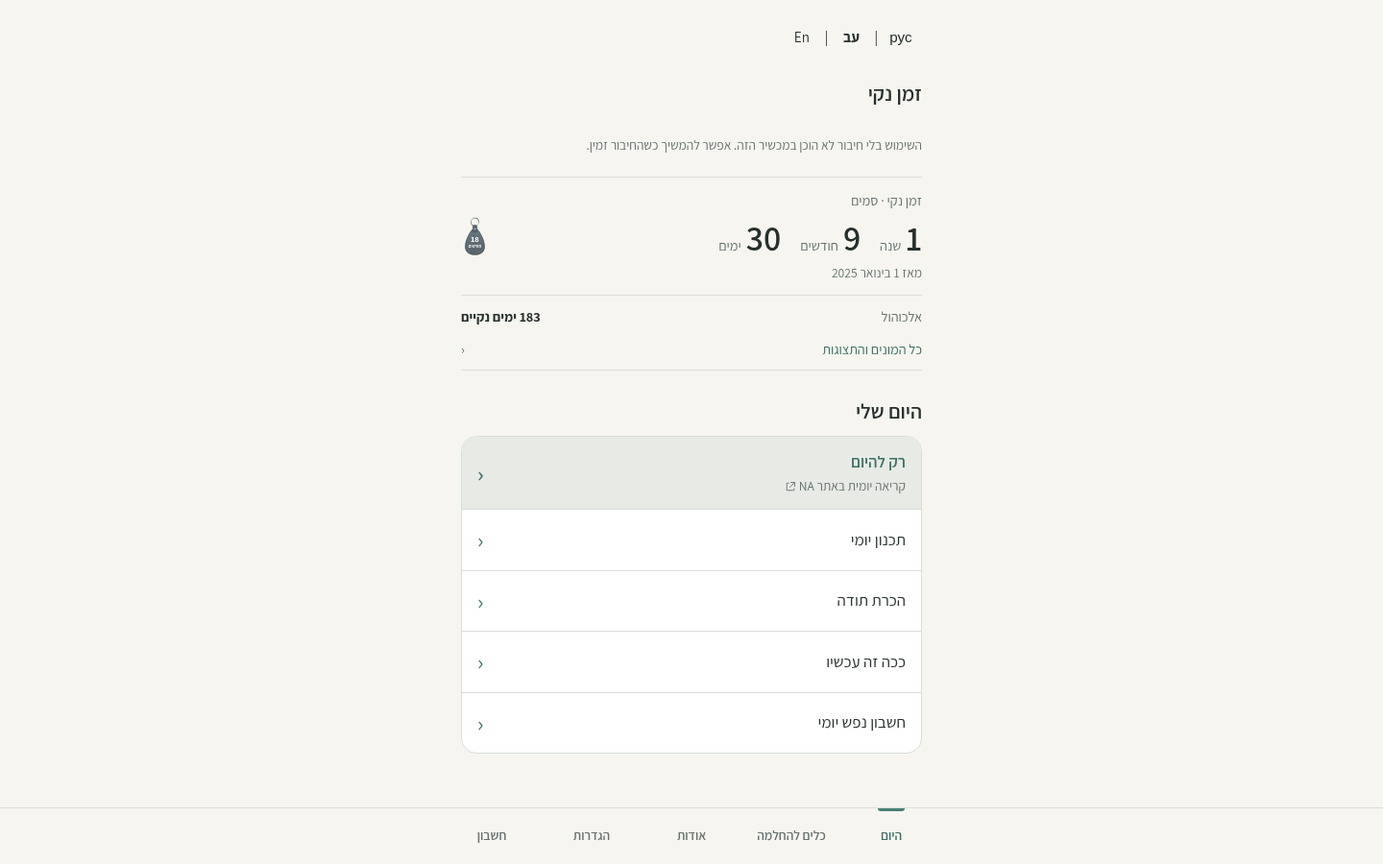
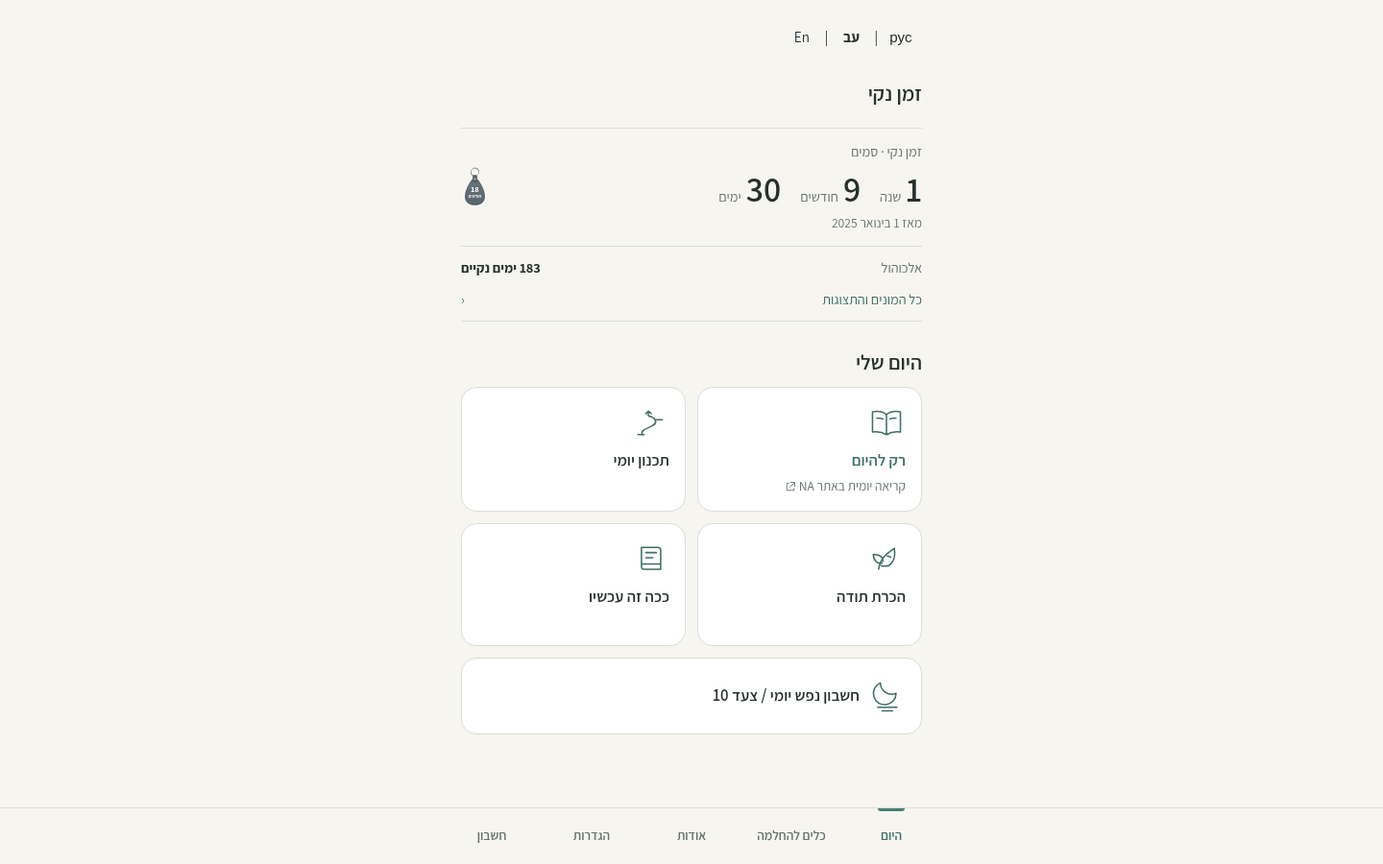
Match Home daily cards to Welcome with a two by two plus Step 10 layout

diff --git a/index.html b/index.html
@@ -299,9 +299,9 @@ select{min-height:46px}
 .welcome-features{margin:0 0 24px}
 .welcome-features h2{font-size:1.2rem;margin:0 0 12px}
 .welcome-feature-list{list-style:none;padding:0;margin:0;display:grid;gap:12px}
-.welcome-feature-list li{display:flex;align-items:flex-start;gap:14px;padding:16px;background:var(--surface);border:1px solid var(--line);border-radius:16px;min-width:0}
-.welcome-feature-list .page-art{color:var(--accent-ink);width:40px;height:40px}
-.welcome-feature-list h3{font-size:1.05rem;line-height:1.4;margin:0 0 4px;font-weight:600}
+.welcome-feature-list li,.daily-card{display:flex;align-items:flex-start;gap:14px;padding:16px;background:var(--surface);border:1px solid var(--line);border-radius:16px;min-width:0}
+.welcome-feature-list .page-art,.daily-card .page-art{color:var(--accent-ink);width:40px;height:40px}
+.welcome-feature-list h3,.daily-card-title{font-size:1.05rem;line-height:1.4;margin:0 0 4px;font-weight:600}
 .welcome-feature-list p{font-size:1rem;color:var(--muted);margin:0;line-height:1.5}
 .welcome-entry{max-width:440px;margin:0 auto;text-align:center}
 #welcome .welcome-entry .btn{width:100%;white-space:normal;margin-bottom:8px}
@@ -397,11 +397,16 @@ nav.tabs button span{max-width:100%;white-space:normal;overflow-wrap:anywhere}
 .counter-detail-link{display:flex;align-items:center;justify-content:space-between;gap:12px;width:100%;min-height:44px;padding:8px 0;color:var(--accent-ink);font-size:.9rem;border:0;background:none;text-align:start;cursor:pointer}
 .chevron::after{content:'‹'}
 :root[dir="ltr"] .chevron::after{content:'›'}
-#counter .tool-links{padding:0;overflow:hidden}
-#counter .tool-links :is(a,button){min-height:56px;padding:12px 16px;gap:10px;text-align:start}
-#counter .tool-links .primary{background:var(--accent-soft);min-height:76px}
-.action-copy{display:flex;flex-direction:column;min-width:0}
-.action-copy small{font-size:.85rem;font-weight:400;color:var(--muted)}
+.daily-cards{display:grid;grid-template-columns:repeat(2,minmax(0,1fr));gap:12px}
+.daily-card{flex-direction:column;gap:8px;min-height:128px;width:100%;text-align:start;text-decoration:none;cursor:pointer;overflow-wrap:anywhere;color:var(--ink)}
+.daily-card-title{display:block}
+.daily-card small{display:block;font-size:.85rem;font-weight:400;color:var(--muted);line-height:1.5}
+.daily-card.primary .daily-card-title{color:var(--accent-ink)}
+.daily-card:last-child{grid-column:1/-1;flex-direction:row;align-items:center;min-height:80px}
+.daily-card:last-child .daily-card-title{margin:0}
+.daily-card:active{background:var(--accent-soft)}
+@media(hover:hover){.daily-card:hover{border-color:var(--accent-ink);background:var(--accent-soft)}}
+@media(max-width:340px){.daily-card{padding:10px}.daily-card-title{font-size:.95rem}.daily-cards{gap:10px}}
 .external-link-icon{width:12px;height:12px;fill:none;stroke:currentColor;stroke-width:1.2;vertical-align:middle}
 #counterDetails{text-align:start;padding-bottom:20px}
 #counterDetails .count{margin:auto;max-width:100%}
@@ -512,12 +517,12 @@ nav.tabs button span{max-width:100%;white-space:normal;overflow-wrap:anywhere}
     </div>
     <div class="today-actions">
       <h2><span data-i18n="היום שלי">היום שלי</span></h2>
-      <div class="tool-links" aria-label="פעולות יומיות" data-i18n-aria-label="פעולות יומיות">
-        <a class="primary" id="dailyReading" href="https://www.naisrael.org.il/just-for-today/" target="_blank" rel="noopener noreferrer" aria-label="רק להיום — נפתח בחלון חדש" data-i18n-aria-label="רק להיום — נפתח בחלון חדש"><span class="action-copy"><span data-i18n="רק להיום">רק להיום</span><small><span data-i18n="קריאה יומית באתר NA">קריאה יומית באתר NA</span> <span id="readingLanguage"></span> <svg class="external-link-icon" viewBox="0 0 16 16" aria-hidden="true" focusable="false"><path d="M6 3H3v10h10v-3M8 2h6v6M14 2 7 9"/></svg></small></span></a>
-        <button data-go="planner"><span data-i18n="תכנון יומי">תכנון יומי</span></button>
-        <button data-go="gratitude"><span data-i18n="הכרת תודה">הכרת תודה</span></button>
-        <button data-go="journal"><span data-i18n="ככה זה עכשיו">ככה זה עכשיו</span></button>
-        <button data-go="inventory"><span data-i18n="חשבון נפש יומי">חשבון נפש יומי</span></button>
+      <div class="daily-cards" aria-label="פעולות יומיות" data-i18n-aria-label="פעולות יומיות">
+        <a class="daily-card primary" id="dailyReading" href="https://www.naisrael.org.il/just-for-today/" target="_blank" rel="noopener noreferrer" aria-label="רק להיום — נפתח בחלון חדש" data-i18n-aria-label="רק להיום — נפתח בחלון חדש"><svg class="page-art" viewBox="0 0 44 44" aria-hidden="true" focusable="false"><path d="M22 13c-5-4-11-4-16-3v23c6-1 11 0 16 3 5-3 10-4 16-3V10c-5-1-11-1-16 3Zm0 0v23M11 17c3 0 5 0 7 1m8 0c2-1 4-1 7-1"/></svg><span><span class="daily-card-title" data-i18n="רק להיום">רק להיום</span><small><span data-i18n="קריאה יומית באתר NA">קריאה יומית באתר NA</span> <span id="readingLanguage"></span> <svg class="external-link-icon" viewBox="0 0 16 16" aria-hidden="true" focusable="false"><path d="M6 3H3v10h10v-3M8 2h6v6M14 2 7 9"/></svg></small></span></a>
+        <button class="daily-card" data-go="planner"><svg class="page-art" viewBox="0 0 44 44" aria-hidden="true" focusable="false"><path d="M13 36c-4-8 18-8 15-16s-10-2-8-9"/><path d="m17 12 3-3 3 3"/><path d="M8 36h7m14-17h7"/></svg><span class="daily-card-title" data-i18n="תכנון יומי">תכנון יומי</span></button>
+        <button class="daily-card" data-go="gratitude"><svg class="page-art" viewBox="0 0 44 44" aria-hidden="true" focusable="false"><path d="M13 34c2-12 8-17 18-24 2 14-4 23-15 20"/><path d="M17 27c-6 1-10-3-10-10 7 0 11 3 11 8m5-6 4 1"/></svg><span class="daily-card-title" data-i18n="הכרת תודה">הכרת תודה</span></button>
+        <button class="daily-card" data-go="journal"><svg class="page-art" viewBox="0 0 44 44" aria-hidden="true" focusable="false"><path d="M12 9h19a3 3 0 0 1 3 3v22H15a3 3 0 0 1-3-3V9Zm0 19h22M17 15h12m-12 6h8"/></svg><span class="daily-card-title" data-i18n="ככה זה עכשיו">ככה זה עכשיו</span></button>
+        <button class="daily-card" data-go="inventory"><svg class="page-art" viewBox="0 0 44 44" aria-hidden="true" focusable="false"><path d="M33 19A13 13 0 0 1 15 7a13 13 0 1 0 18 12Z"/><path d="M12 35h22m-17 4h12"/></svg><span class="daily-card-title" data-i18n="חשבון נפש יומי / צעד 10">חשבון נפש יומי / צעד 10</span></button>
       </div>
     </div>
   </section>
@@ -835,7 +840,7 @@ nav.tabs button span{max-width:100%;white-space:normal;overflow-wrap:anywhere}
 <script src="assets/recovery-timers.js"></script>
 <script>
 (function(){
-const APP_VERSION='2026.10.31.1';
+const APP_VERSION='2026.10.31.2';
 const KEY='cleantime-he-v1';
 const translateUI=CleanTimeI18n.t;
 const CNAMES={teal:'טורקיז',sky:'כחול',indigo:'אינדיגו',plum:'שזיף',olive:'זית',rose:'ורד'};

diff --git a/tests/guided-home-qa.js b/tests/guided-home-qa.js
@@ -10,7 +10,13 @@ async(page)=>{
  await page.goto(origin);const saved=await page.evaluate(key=>localStorage.getItem(key),key);
  check(await page.locator('#homeSecondary').isVisible(),'A secondary counter is compact and visible by default');
  check(await page.locator('#counter input,#counter select,#counter [data-display]').count()===0,'Home presents no display decisions or setup controls');
- check(await page.locator('#counter .tool-links > *').count()===5,'All five daily actions remain available without completion gates');
+ check(await page.locator('#counter .daily-cards > *').count()===5,'All five daily actions remain available without completion gates');
+ check(await page.locator('.daily-card-title').last().textContent()==='חשבון נפש יומי / צעד 10','Fifth card retains the full Step 10 label');
+ await page.locator('#dailyReading').focus();
+ for(const destination of ['planner','gratitude','journal','inventory']){
+  await page.keyboard.press('Tab');
+  check(await page.locator('#counter [data-go='+destination+']').evaluate(e=>e===document.activeElement&&getComputedStyle(e).outlineStyle!=='none'),'Keyboard order and visible focus: '+destination);
+ }
  const homeLabel=await page.locator('#homePrimaryLabel').textContent();
  await page.locator('#counter [data-go=counterDetails]').focus();await page.keyboard.press('Enter');
  check(await page.locator('#counterDetails').isVisible()&&await page.locator('#counterDetails h2').evaluate(e=>e===document.activeElement),'Keyboard opens details and focuses its heading');
@@ -41,12 +47,20 @@ async(page)=>{
  },{key,saved}),'Counter preferences retain histories, timer records, unknown fields and recovery timestamp');
  for(const language of ['he','en','ru']){
   await page.locator('[data-language='+language+']').click();await page.waitForFunction(l=>document.documentElement.lang===l,language);
-  for(const colorScheme of ['light','dark'])for(const width of [360,390,1440]){
+  for(const colorScheme of ['light','dark'])for(const width of [320,360,390,1440]){
    await page.emulateMedia({colorScheme});await page.setViewportSize({width,height:width===1440?900:800});
    check(await page.evaluate(()=>{
-    const first=document.getElementById('dailyReading').getBoundingClientRect(),last=document.querySelector('#counter .tool-links button:last-child').getBoundingClientRect(),footer=document.getElementById('tabs').getBoundingClientRect(),num=document.querySelector('#homePrimaryCount .num');
-    return document.documentElement.scrollWidth<=innerWidth&&first.bottom<footer.top&&last.bottom<footer.top&&parseFloat(getComputedStyle(num).fontSize)<=36;
-   }),'Compact status and five actions above footer '+language+' '+width+' '+colorScheme);
+    const first=document.getElementById('dailyReading').getBoundingClientRect(),footer=document.getElementById('tabs').getBoundingClientRect(),num=document.querySelector('#homePrimaryCount .num');
+    return document.documentElement.scrollWidth<=innerWidth&&first.bottom<footer.top&&parseFloat(getComputedStyle(num).fontSize)<=36;
+   }),'Compact status and first daily actions above footer '+language+' '+width+' '+colorScheme);
+   check(await page.evaluate(()=>{
+    const cards=[...document.querySelectorAll('.daily-cards > *')],r=cards.map(e=>e.getBoundingClientRect()),grid=document.querySelector('.daily-cards').getBoundingClientRect(),rtl=document.documentElement.dir==='rtl',near=(a,b)=>Math.abs(a-b)<1;
+    return r.length===5&&near(r[0].top,r[1].top)&&near(r[2].top,r[3].top)&&r[2].top>r[0].bottom&&near(r[0].left,r[2].left)&&near(r[1].left,r[3].left)&&(rtl?r[0].left>r[1].left:r[0].left<r[1].left)&&near(r[4].width,grid.width)&&near(r[4].top-Math.max(r[2].bottom,r[3].bottom),parseFloat(getComputedStyle(document.querySelector('.daily-cards')).rowGap))&&cards.every(e=>e.scrollWidth<=e.clientWidth&&e.getBoundingClientRect().height>=44);
+   }),'Two by two cards in reading order followed immediately by full-width Step 10 '+language+' '+width+' '+colorScheme);
+   check(await page.evaluate(()=>{
+    const card=document.querySelector('.daily-card'),welcome=document.querySelector('.welcome-feature-list li'),a=getComputedStyle(card),b=getComputedStyle(welcome);
+    return ['backgroundColor','borderColor','borderWidth','borderRadius'].every(k=>a[k]===b[k])&&getComputedStyle(card.querySelector('.page-art')).color===getComputedStyle(welcome.querySelector('.page-art')).color;
+   }),'Home cards share Welcome surface, border, radius and icon treatment '+language+' '+width+' '+colorScheme);
    await page.locator('#counter [data-go=counterDetails]').click();
    for(const mode of ['cards','compact','single']){
     await page.locator('[data-display='+mode+']').click();

diff --git a/tests/navigation-qa.js b/tests/navigation-qa.js
@@ -5,7 +5,7 @@ async(page)=>{
  await page.route('**/*',r=>r.request().url().startsWith(origin)?r.fallback():r.abort());
  await page.addInitScript(()=>{if(!localStorage.getItem('cleantime-he-v1'))localStorage.setItem('cleantime-he-v1',JSON.stringify({date:'2025-01-01',from:'אחר',linksV:2,links:[{id:1,title:'רק להיום',url:'https://www.naisrael.org.il/just-for-today/'},{id:2,title:'משאב בדיקה',url:'https://example.invalid/resource'},{id:3,title:'קישור ישן',url:'javascript:alert(1)'}],journal:[{id:5,text:'סינתטי',created:1}],inventory:{'2025-01-01':{summary:'ישן',answers:{legacy:'נשמר'}}},updatedAt:1}));});
  await page.goto(origin);const saved=await page.evaluate(()=>localStorage.getItem('cleantime-he-v1'));
- check((await page.locator('#counter .tool-links > * > span').evaluateAll(es=>es.map(e=>e.firstElementChild?.tagName==='SPAN'?e.firstElementChild.textContent:e.textContent))).join('|')==='רק להיום|תכנון יומי|הכרת תודה|ככה זה עכשיו|חשבון נפש יומי','Exactly five ordered daily actions');
+ check((await page.locator('#counter .daily-card-title').allTextContents()).join('|')==='רק להיום|תכנון יומי|הכרת תודה|ככה זה עכשיו|חשבון נפש יומי / צעד 10','Exactly five ordered daily cards');
  check(await page.locator('#counter .today-actions h2').innerText()==='היום שלי'&&await page.locator('#counter .today-actions h2').evaluate(e=>getComputedStyle(e).textAlign)==='start','Daily routine heading follows reading direction');
  check(await page.locator('#dailyReading').getAttribute('href')==='https://www.naisrael.org.il/just-for-today/'&&await page.locator('#dailyReading').getAttribute('target')==='_blank'&&(await page.locator('#dailyReading').getAttribute('rel')).includes('noreferrer'),'Exact daily URL opens separately with safe return');
  for(const id of ['planner','gratitude','journal','inventory']){await page.locator('#counter [data-go='+id+']').click();check(await page.locator('#'+id).isVisible(),'One tap to '+id);await page.goBack();check(await page.locator('#counter').isVisible(),'Browser Back from '+id);await page.goForward();check(await page.locator('#'+id).isVisible(),'Forward to '+id);await page.goBack();}

diff --git a/service-worker.js b/service-worker.js
@@ -1,5 +1,5 @@
 // Only this version's static shell is cached. Recovery/Auth responses never enter CacheStorage.
-const VERSION='2026.10.31.1';
+const VERSION='2026.10.31.2';
 const PREFIX='clean-time-shell-v1-',CACHE=PREFIX+VERSION;
 const SHELL=['/','/manifest.webmanifest','/icon-192.png','/icon-512.png','/icon-maskable-512.png','/apple-touch-icon.png','/assets/backend-config.js','/assets/sync-crypto.js','/assets/messages.js','/assets/i18n.js','/assets/appearance.js','/assets/analytics.js','/assets/recovery-dates.js','/assets/recovery-timers.js','/assets/fonts/Assistant-Variable.ttf','/assets/gong.wav'];
 self.addEventListener('install',event=>event.waitUntil((async()=>{

diff --git a/docs/HOME-UX.md b/docs/HOME-UX.md
@@ -1,40 +1,49 @@
-# Guided daily Home — owner review
+# Guided daily Home — revised owner review
 
-Home now puts a compact recovery summary above the five directly accessible daily activities: רק להיום, תכנון יומי, הכרת תודה, ככה זה עכשיו, חשבון נפש יומי. The reading uses the existing external NA Israel URL. Its secondary line identifies the external reading and, in English/Russian, its Hebrew language. Nothing tracks completion or requires an activity to be finished before another can open.
+Home shows a compact recovery summary followed by four daily cards in a 2×2 grid and one full-width Step 10 card. This revision addresses the [owner's PR #68 feedback](https://github.com/onahum2023/clean-time/pull/68#pullrequestreview-5723184892).
 
-## Deliberate discoverability changes
+## Daily card layout
 
-- The primary summary always describes the primary recovery path, regardless of the counter selected in details. Its start date and calendar duration stay visible.
-- A secondary recovery path is a small row. Additional paths remain available in details. Existing device visibility preferences are respected. New defaults show a compact secondary path; the existing optional second-path setup checkbox defaults on and can still be unchecked.
-- “כל המונים והתצוגות” opens one optional counter detail view, keeping Today active in the existing footer. It contains the existing single/compact/equal-card presentations, path selector, and tappable numerical counter with all three formats. Browser Back/Forward and an explicit “חזרה להיום” button return to Home.
-- The “show additional paths on Home” checkbox moves to details. Hiding the secondary summary does not hide saved paths or presentation options in details.
-- Recovery-date/path editing stays in Settings, reached directly from details. The shared footer retains Today, Tools, About, Settings and Account. No new intermediate page is required to start a daily activity.
-- The existing key-tag milestone is smaller and refers to the primary Home path. Its existing Settings visibility preference is retained. Large decorative Home artwork is removed; the existing font, palette, RTL/LTR behavior, appearance settings and component conventions remain.
+The DOM, keyboard and reading order is fixed: רק להיום, תכנון יומי, הכרת תודה, ככה זה עכשיו, חשבון נפש יומי / צעד 10. In Hebrew RTL, reading/plan occupy the top right/left, and gratitude/journal the bottom right/left. English and Russian follow the same sequence in LTR. Step 10 spans both columns immediately beneath the four cards, using the same surface, border and corner treatment.
 
-No dependency, recovery-data format, schema, sync/auth or analytics changes are introduced. Counter display preferences remain device-local. Existing unknown/legacy recovery fields remain intact. Step 10 content and implementation remain separate in [issue #16](https://github.com/onahum2023/clean-time/issues/16); no new questions ship here.
+Home and Welcome share the card surface, subtle border, 16px corners, title typography, accent icon styling and 12px spacing rules. Home reuses the established reading, plan, gratitude, journal and inventory illustrations. The first action has an accent title and a short external-reading description; its safe external URL and separate-window behavior are preserved. Native buttons and links retain the shared visible focus outline; Home adds restrained hover/pressed states. Welcome's existing content and responsive composition are unchanged.
 
-## Before and after
+The grid stays two columns at 320/360/390px and desktop widths. At 320px, 10px padding and 0.95rem titles keep long Russian labels legible without clipping. Card height can grow with text. At enlarged font sizes or with status notices, the page scrolls normally; the footer does not prevent reaching the fifth card. No completion tracking, forced sequence, wizard or score is introduced.
 
-These are public review images with synthetic dates and no account data, captured at 390×844 and 1440×900. The actual implementation images include the existing local/Preview backup-unavailable notice. This can push the fifth action below the first viewport at smaller heights; normal scrolling still reaches every action and the primary status and first action remain visible. No status notices were hidden for the screenshots. The source fixtures use 31 October 2026 in Europe/Amsterdam.
+## Preserved discoverability and functionality
 
-| View | Before | After |
-| --- | --- | --- |
-| Mobile | ![Before mobile](home-ux-reference/before-mobile.png) | ![After mobile](home-ux-reference/after-mobile.png) |
-| Desktop | ![Before desktop](home-ux-reference/before-desktop.png) | ![After desktop](home-ux-reference/after-desktop.png) |
+- The compact primary summary always describes the primary path, independent of the counter selected in details. Its start date and calendar duration stay visible.
+- A secondary path is a small row; every saved path remains in details. Stored device visibility preferences are respected. New defaults show a compact secondary path; the existing optional second-path setup choice can still be unchecked.
+- “כל המונים והתצוגות” opens the optional counter view, keeping Today active in the footer. All three numerical formats, the single/compact/equal-card presentations, path selector and Home visibility checkbox remain accessible. Browser Back/Forward and “חזרה להיום” work.
+- Recovery-date/path editing stays in Settings. The existing footer retains Today, Tools, About, Settings and Account. Every daily card opens its destination directly.
+- The small primary-path key-tag milestone and its Settings visibility preference remain. The existing palette, Assistant font, appearance settings, Hebrew RTL and English/Russian LTR remain.
 
-[English at 360px](home-ux-reference/after-en-360.png) · [Russian at 360px](home-ux-reference/after-ru-360.png)
+No dependency, recovery-data format, schema, authentication, sync or analytics change is introduced by the card revision. Existing guest/offline tools, encrypted backup and unknown/legacy data fields are preserved. Step 10 content stays separate under [issue #16](https://github.com/onahum2023/clean-time/issues/16); no new questions ship here.
 
-These documentation images are excluded from the existing deployment allowlist.
+## Matched Welcome / signed-in Home evidence
+
+Each comparison uses the same viewport: mobile 390×844 or desktop 1440×900. Welcome is the unchanged reference. “Previous Home” is commit `7cdb9a4`, the list layout rejected in owner review. “Revised Home” is the 2×2 + 1 card implementation. The same synthetic recovery dates and registered account are used for both Home versions, with an actually generated encrypted test envelope and a mocked backend. No real account, recovery content or production service is used.
+
+Real local service-worker registration is enabled. Fresh browser contexts and version-matched workers prevent a cached previous Home from appearing in the revised screenshot. These are local browser captures, not hosted registered-account UAT. Dates are fixed to 31 October 2026 in Europe/Amsterdam.
+
+| View | Unchanged Welcome | Previous signed-in Home | Revised signed-in Home |
+| --- | --- | --- | --- |
+| Mobile 390×844 | ![Welcome mobile](home-ux-reference/welcome-mobile.png) | ![Previous signed-in Home mobile](home-ux-reference/previous-home-mobile.png) | ![Revised signed-in Home mobile](home-ux-reference/after-mobile.png) |
+| Desktop 1440×900 | ![Welcome desktop](home-ux-reference/welcome-desktop.png) | ![Previous signed-in Home desktop](home-ux-reference/previous-home-desktop.png) | ![Revised signed-in Home desktop](home-ux-reference/after-desktop.png) |
+
+[English signed-in Home at 320px](home-ux-reference/after-en-320.png) · [Russian signed-in Home at 320px](home-ux-reference/after-ru-320.png)
+
+The original large-counter Home references remain available: [mobile](home-ux-reference/before-mobile.png), [desktop](home-ux-reference/before-desktop.png). All documentation images are excluded from the deployment allowlist.
 
 ## Validation
 
-- Home acceptance suite: 90 assertions covering default secondary visibility, disclosure, every numerical/presentation mode, keyboard activation and heading focus, Back/Forward, primary identity, preference persistence, recovery-history/timestamp preservation and 200% text. Layout matrix: Hebrew/English/Russian, light/dark, 360/390/1440px. In the synthetic local configuration without a backup warning, all five actions fit above the footer at 360×800.
-- Existing navigation (47), timer (25), milestone (52), welcome (180), language/encrypted journeys (64), setup/display (48), local feature journeys (82), active-user upgrade (57), real offline/service-worker (20), security-header (10), account (27), recovery-flow (29) and analytics (149) checks passed.
-- Total: 880 browser assertions across 14 suites, plus 7 repository-hygiene/publication tests. Inline JS and message syntax, CSP regeneration, Preview build and diff whitespace checks passed.
-- Independent agent QA: 19 navigation/history/keyboard/byte-preservation assertions, plus Home and all detail modes at 320/360/390/1280px in three languages. Found and verified the CSS specificity fix for 36px summary numerals; no remaining blocking findings.
+- **957 browser assertions across 14 suites passed.** Home acceptance (167), navigation (47), Welcome (180), i18n/encrypted journeys (64), timers (25), milestones (52), setup/display (48), local tools (82), registered upgrade (57), offline/service-worker (20), security headers (10), account (27), recovery flow (29), analytics (149).
+- Home acceptance measures actual 2×2 + 1 geometry, full-width Step 10 adjacency, RTL/LTR placement, unclipped text, shared Welcome styles, touch targets, visible focus and keyboard order. Matrix: Hebrew/English/Russian × light/dark × 320/360/390/1440px. It also checks direct navigation, counter modes, stored preferences, history/unknown-field/timestamp preservation and enlarged text.
+- Independent agent QA checked the same 24 language/width/color-scheme combinations, direct internal routes, Back, keyboard order and unchanged recovery bytes. Welcome screenshots matched the previous commit exactly in eight width/color-scheme comparisons. No actionable findings.
+- JavaScript syntax, whitespace, regenerated CSP hashes, Preview build, repository hygiene and seven publication/hygiene tests passed before publishing the revision.
 
-All account/sync checks use synthetic identities and mocked backend traffic. No production user data or backend configuration was used. The hosted Preview remains guest-only under the repository's existing build isolation. A live registered-account UAT and owner UX review remain release checks before merge.
+Registered flows use synthetic identities and mocked encrypted traffic. The hosted Preview stays guest-only under the existing build isolation. A live registered-account UAT and owner UX approval remain release checks before merge.
 
 ## Review and release
 
-Deliver as a Draft PR and Vercel Preview. Independent QA was requested and completed locally. Keep the PR draft pending owner UX review and release checks. Do not merge or deploy to production automatically.
+Update the same Draft PR #68 and its Vercel Preview. Request owner UX review again on the revised Preview. Keep the PR draft; do not merge or deploy Production automatically.

diff --git a/README.md b/README.md
@@ -17,7 +17,7 @@ The canonical production origin is `https://clean-time.app/`; the www domain red
 
 **First visit.** Welcome introduces the app with its existing logo and Hebrew wordmark, a short purpose/origin paragraph and four non-interactive feature explanations before the entry actions; **מתחילים** opens a separate setup asking only for a recovery date and type. No name, email or phone is required. Existing configured users open Today. Native date pickers show a Hebrew confirmation with the month written out. About/privacy is available before setup.
 
-**Today (היום).** A compact recovery summary and five directly accessible daily actions in order: daily reading, Daily Plan, Gratitude, Journal and Step 10. Counter presentation controls live in the optional counter detail view. Recovery Tools, About and shared Settings/Account stay in the footer. Feedback is reached from About.
+**Today (היום).** A compact recovery summary and four daily cards in a 2×2 grid followed by a full-width Step 10 card, all directly accessible in order: daily reading, Daily Plan, Gratitude, Journal and Step 10. Counter presentation controls live in the optional counter detail view. Recovery Tools, About and shared Settings/Account stay in the footer. Feedback is reached from About.
 
 **Daily plan (התכנית שלי להיום).** One checklist per calendar day. Add, edit, delete and check items. Each new day starts empty; previous plans remain accessible.
 
